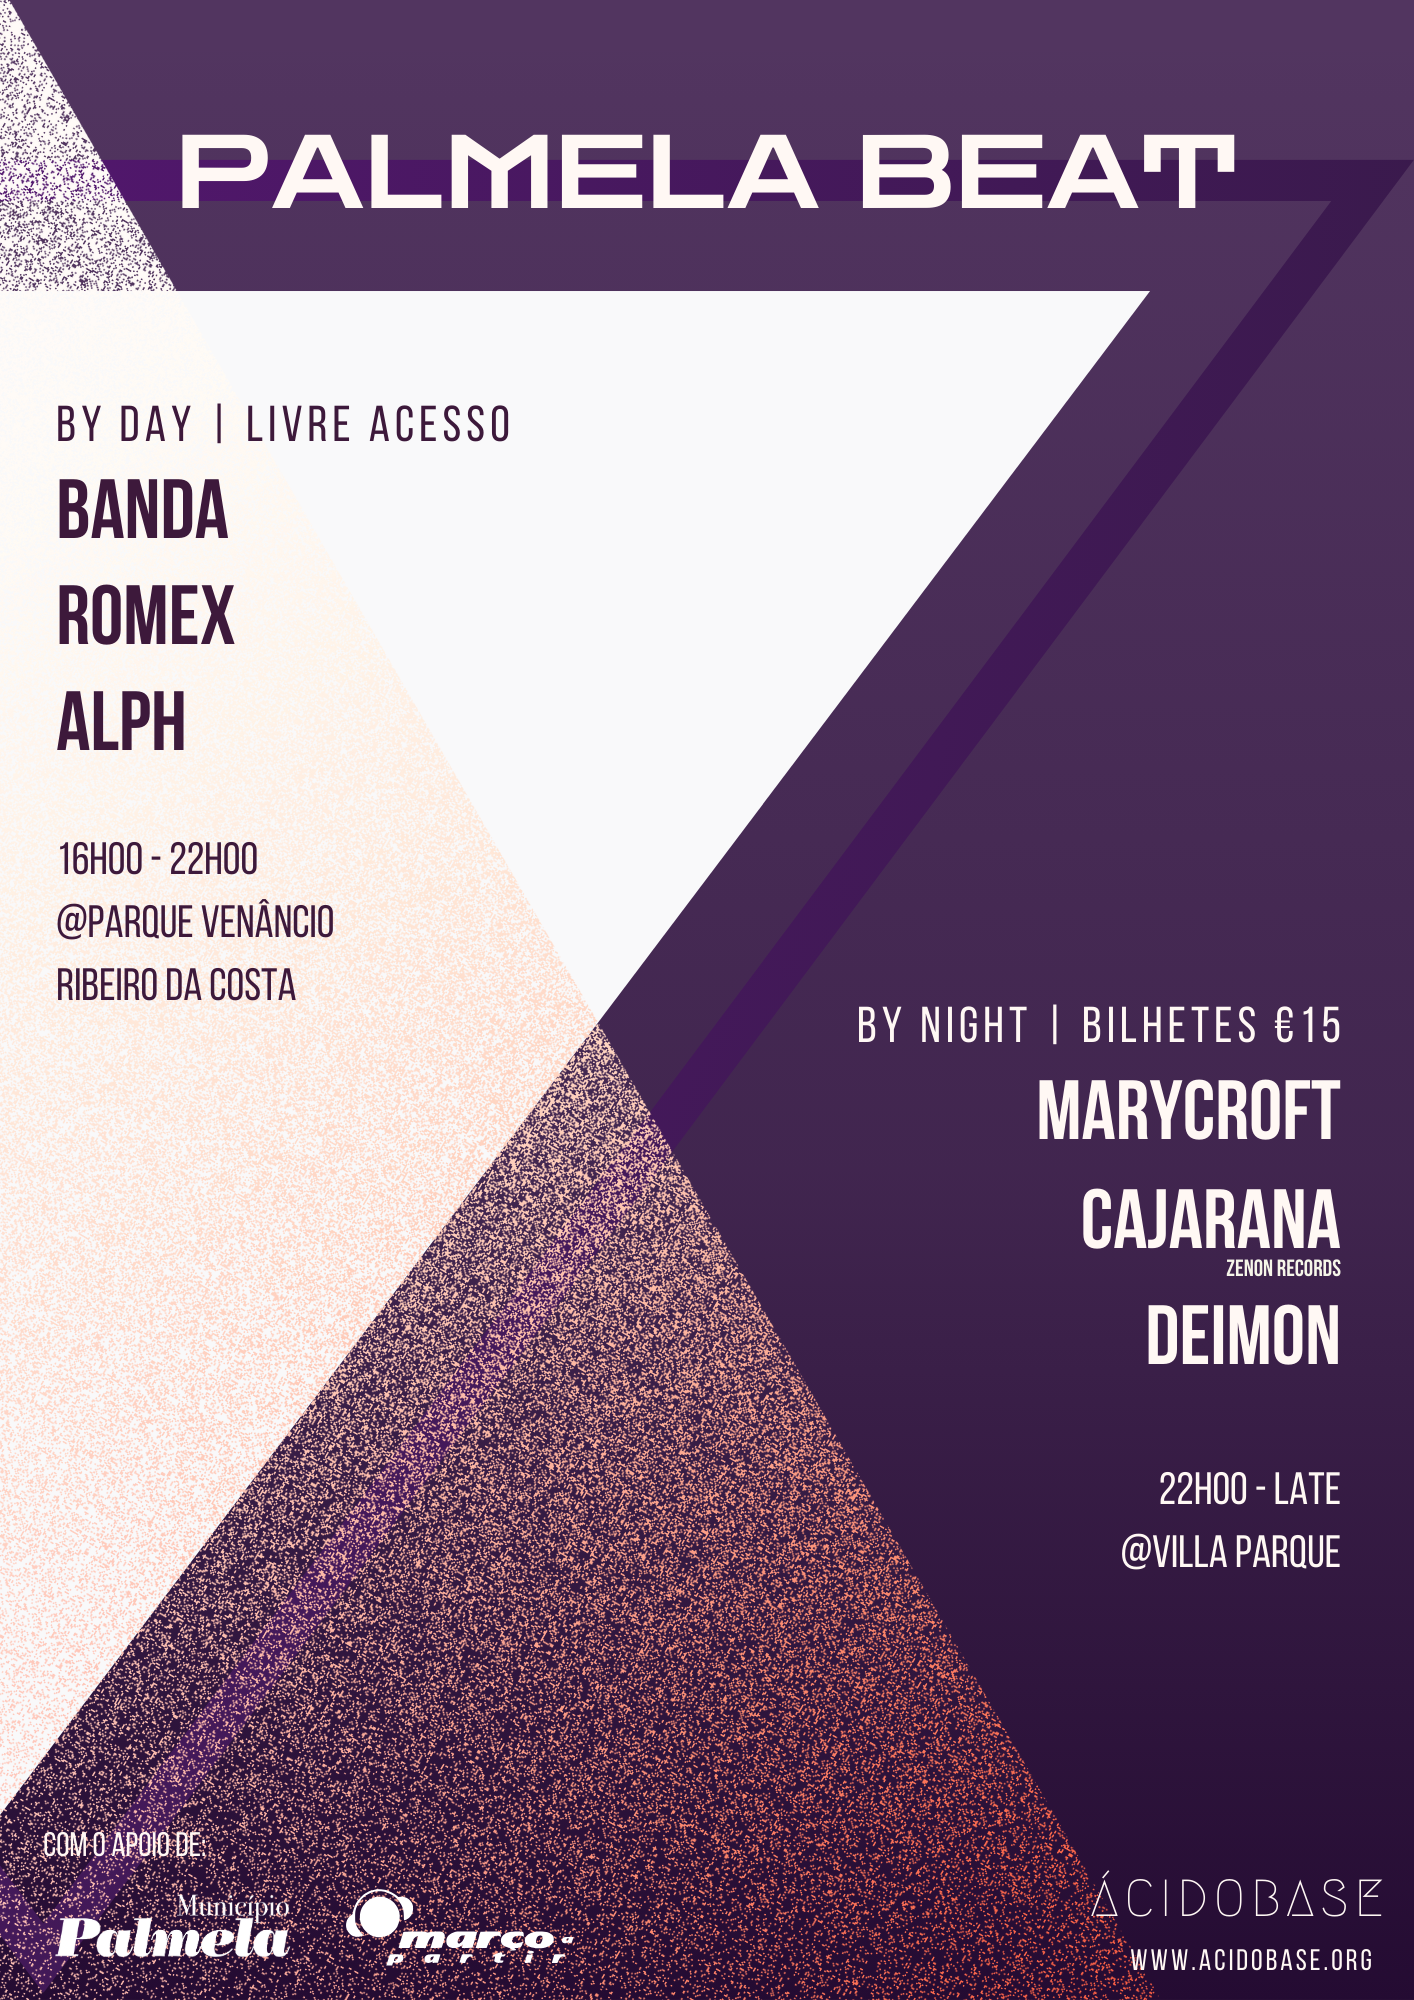
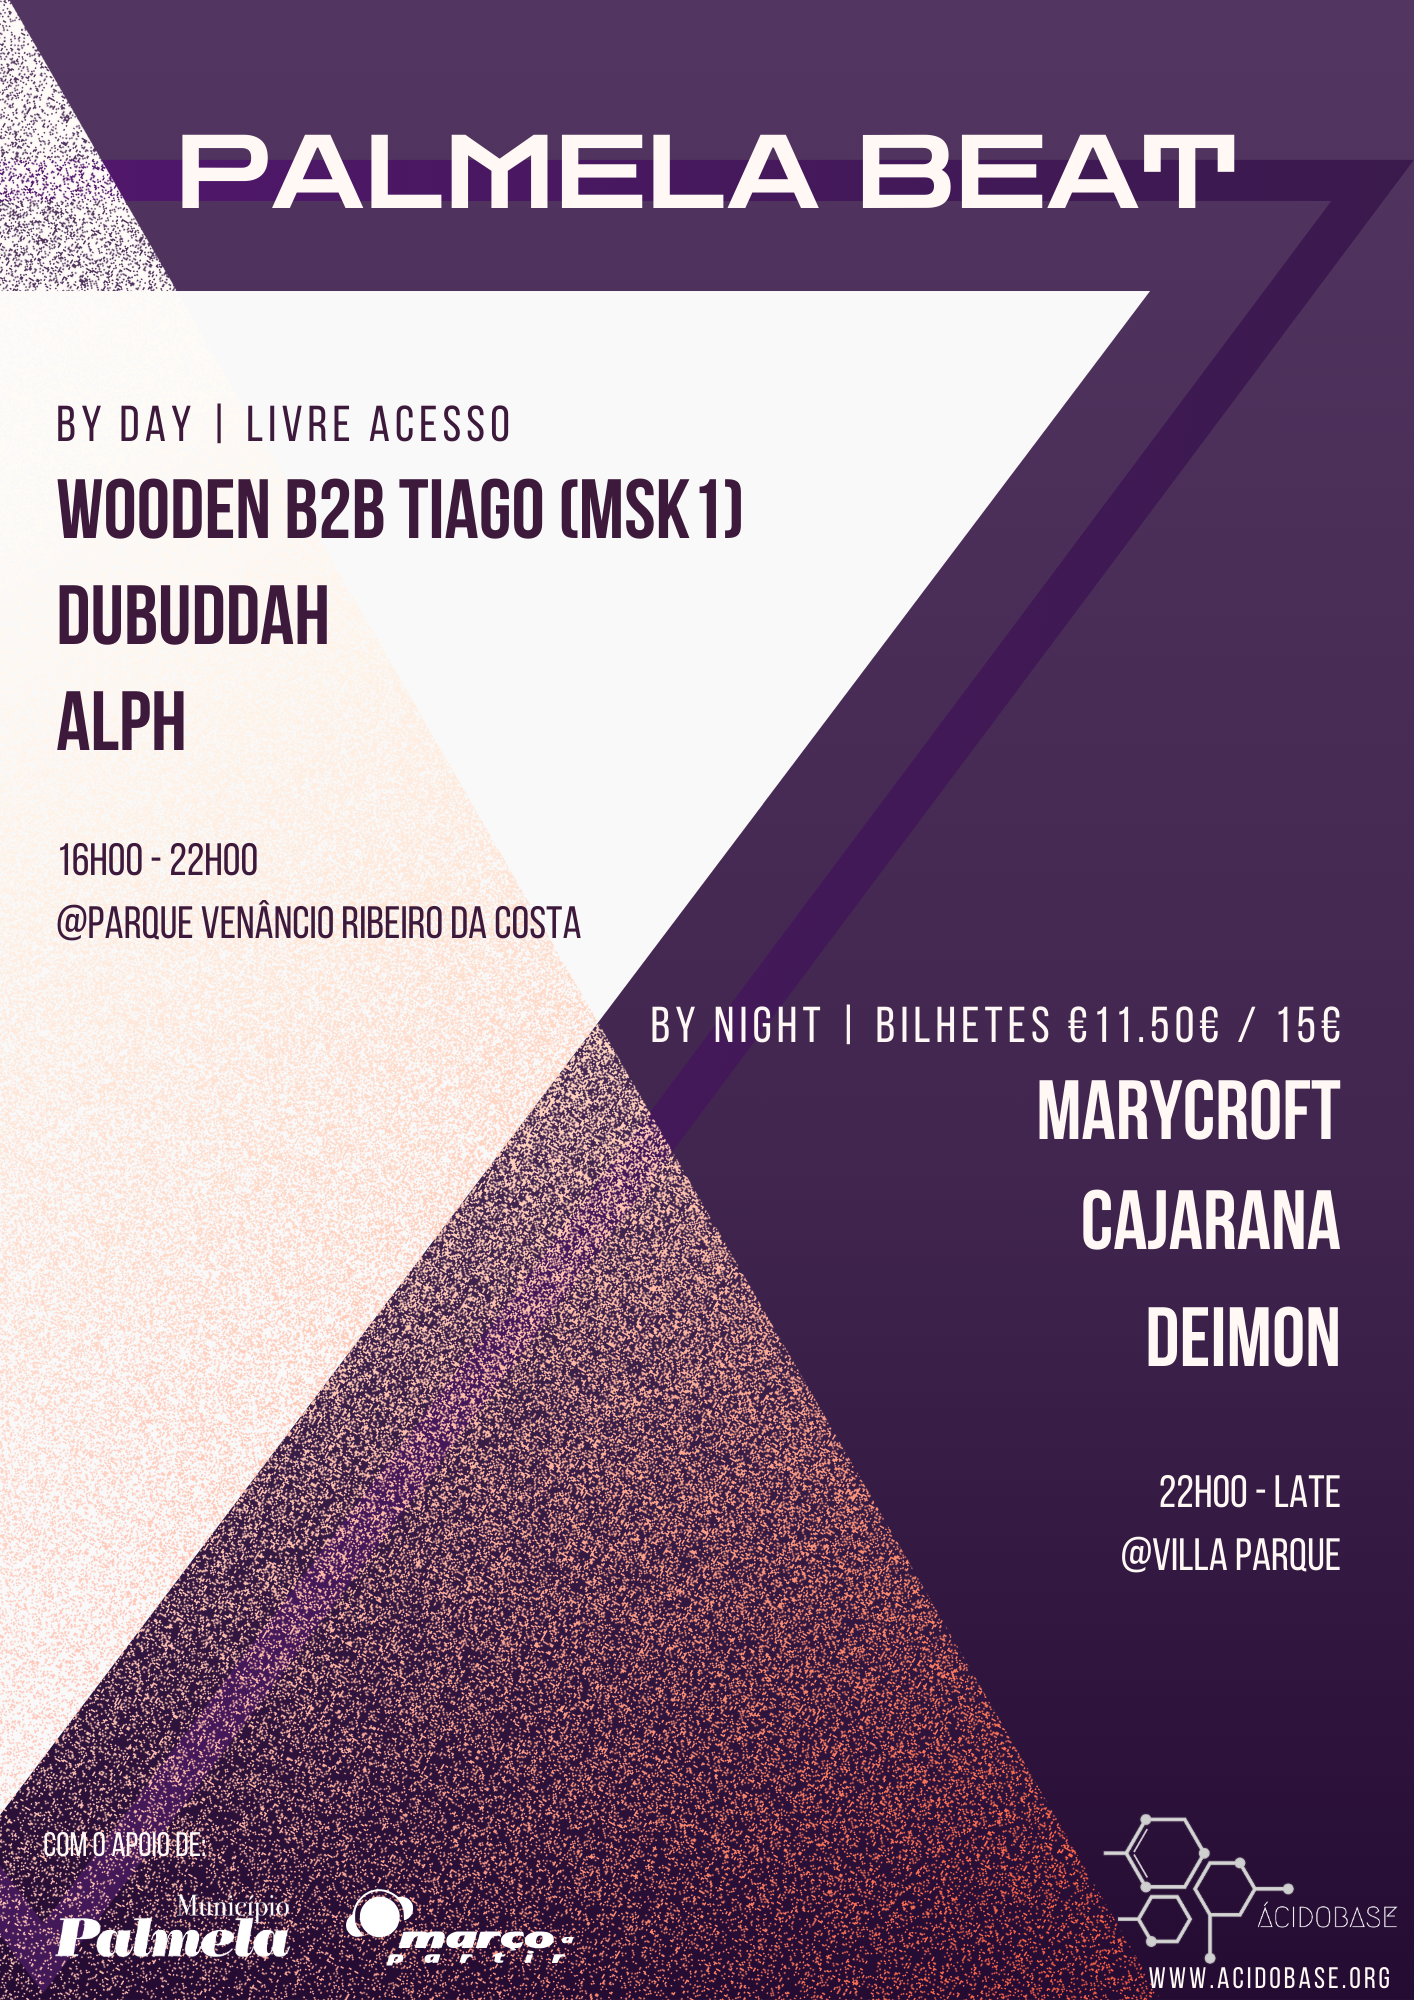
Update Palmela Beat description

diff --git a/content/palmela-beat.pt.md b/content/palmela-beat.pt.md
@@ -16,7 +16,7 @@ tags: ["events"]
 location: "Parque Venâncio Ribeiro da Costa"
 eventDate: "23 Mar 2024"
 schedule: "16h - Late"
-description: "Lorem ipsum dolor sit amet, consectetur adipiscing elit, sed do eiusmod tempor incididunt ut labore et dolore magna aliqua. Adipiscing elit pellentesque habitant morbi tristique senectus et."
+description: "Palmela Beat 2024: 18 anos de história, uma experiência diurna no Parque Venâncio Ribeiro da Costa e uma noite intensa no VILLA, sob a égide da ÁcidoBase, prometendo ser a referência da música eletrónica."
 ---
 
 
@@ -33,8 +33,8 @@ description: "Lorem ipsum dolor sit amet, consectetur adipiscing elit, sed do ei
 @ [Parque Venâncio Ribeiro da Costa](https://maps.app.goo.gl/dwMcLqkhZEHuAcg16)
 
 ---
-##### A Anunciar
-##### A Anunciar
+##### Wooden b2b Tiago (MSK1)
+##### [Dubuddah](https://soundcloud.com/dubuddha)
 ##### [Alph](https://www.mixcloud.com/ruipedroalferespedro/)
 
 ---
@@ -51,9 +51,9 @@ description: "Lorem ipsum dolor sit amet, consectetur adipiscing elit, sed do ei
 @ [VILLA Parque](https://maps.app.goo.gl/nK2AqJphFurYeuYH6)
 
 ---
-##### [DeimOn](https://soundcloud.com/dj-deimon)
-##### [Carajana](https://soundcloud.com/cajaranamusic)
 ##### [MaryCroft](https://soundcloud.com/marycroft-macedo)
+##### [Carajana](https://soundcloud.com/cajaranamusic)
+##### [DeimOn](https://soundcloud.com/dj-deimon)
 
 ---
 

diff --git a/content/palmela-beat.en.md b/content/palmela-beat.en.md
@@ -16,16 +16,16 @@ tags: ["events"]
 location: "Parque Venâncio Ribeiro da Costa"
 eventDate: "23 Mar 2024"
 schedule: "16h - Late"
-description: "Lorem ipsum dolor sit amet, consectetur adipiscing elit, sed do eiusmod tempor incididunt ut labore et dolore magna aliqua. Adipiscing elit pellentesque habitant morbi tristique senectus et."
+description: "Palmela Beat 2024: 18 years of history, a daytime experience at Parque Venâncio Ribeiro da Costa, and an intense night at VILLA, under the ÁcidoBase's auspices, promising to be the benchmark in electronic music."
 ---
 
 {{< columns count=2 >}} {{< column >}}
 
 ### By Day
 ---
+##### Wooden b2b Tiago (MSK1)
+##### [Dubuddah](https://soundcloud.com/dubuddha)
 ##### [Alph](https://www.mixcloud.com/ruipedroalferespedro/)
-##### [Selecta Alice](https://soundcloud.com/selecta-alice)
-##### To be disclosured
 <br>
 
 ### @
@@ -45,5 +45,5 @@ description: "Lorem ipsum dolor sit amet, consectetur adipiscing elit, sed do ei
 [VILLA Parque](https://maps.app.goo.gl/nK2AqJphFurYeuYH6)
 {{< /column >}} {{< /columns >}}
 
-
+{{< tickets >}} 
 
